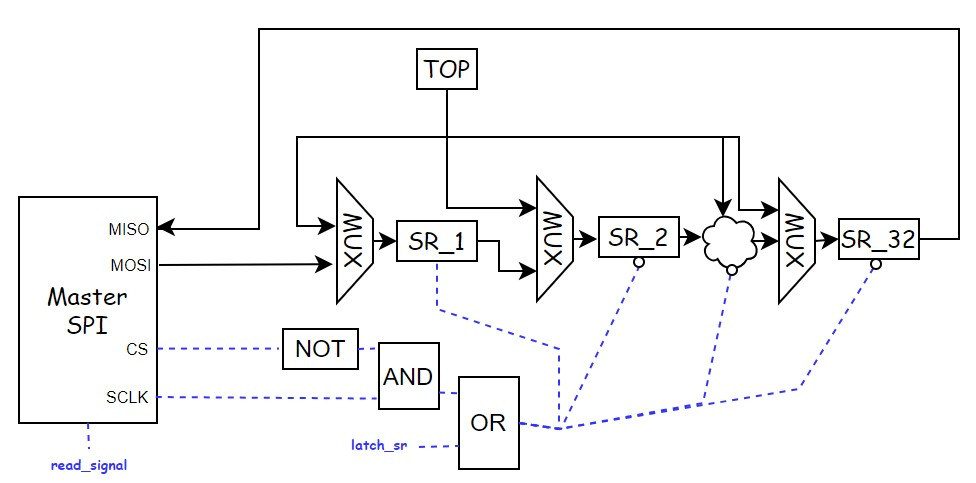
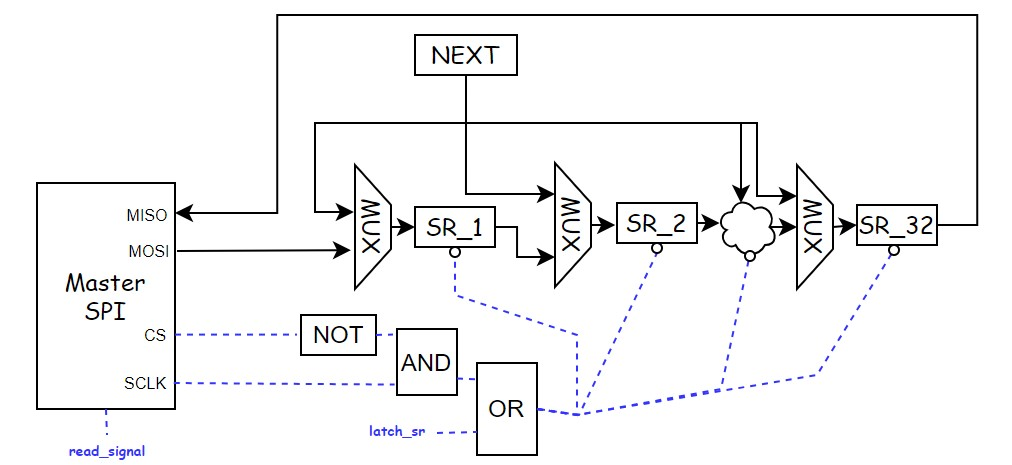
changed spi model and little changes in spi code (according to model image)

diff --git a/Translator-Model/machine.py b/Translator-Model/machine.py
@@ -477,7 +477,6 @@ class MasterSPI:
         self.control_unit = control_unit
         self.tick_limit = limit
         self.tick_number = 0
-        self.intr_moving = False
         self.sig_read = False
         self.MISO = False
         self.MOSI = False
@@ -489,10 +488,9 @@ class MasterSPI:
 
     def tick_fall(self) -> None:
         latch_sr = self.control_unit.data_path.latch_sr
-        if latch_sr and not self.intr_moving:  # slave
+        if latch_sr and not self.sig_read:  # slave
             self.control_unit.data_path.latch_sr = False
             self.control_unit.data_path.sr = self.control_unit.data_path.sro.copy()
-            self.intr_moving = True
             self.tick_number = 0
             self.control_unit.cs = False
             self.sig_read = True
@@ -505,7 +503,6 @@ class MasterSPI:
             self.control_unit.data_path.sr[0] = self.MOSI
         if not self.control_unit.cs and self.tick_number >= 32:
             self.control_unit.cs = True
-            self.intr_moving = False
             self.write_content()
             self.tick_number = 0
             if not self.sig_read:
@@ -514,7 +511,7 @@ class MasterSPI:
             self.sig_read = False
 
     def check_for_input(self) -> None:
-        if self.control_unit.ps["Intr_On"] and not self.intr_moving and not self.control_unit.ps["Intr_Mode"]:
+        if self.control_unit.ps["Intr_On"] and self.control_unit.cs and not self.control_unit.ps["Intr_Mode"]:
             for index, interrupt in enumerate(self.control_unit.input_tokens):
                 if not self.control_unit.tokens_handled[index] and interrupt[0] <= self.control_unit.tick_number:
                     input_content = ord(interrupt[1])
@@ -524,7 +521,6 @@ class MasterSPI:
                     self.control_unit.tokens_handled[index] = True
                     self.control_unit.cs = False
                     self.tick_number = 1
-                    self.intr_moving = True
                     return
 
     def tick(self):
